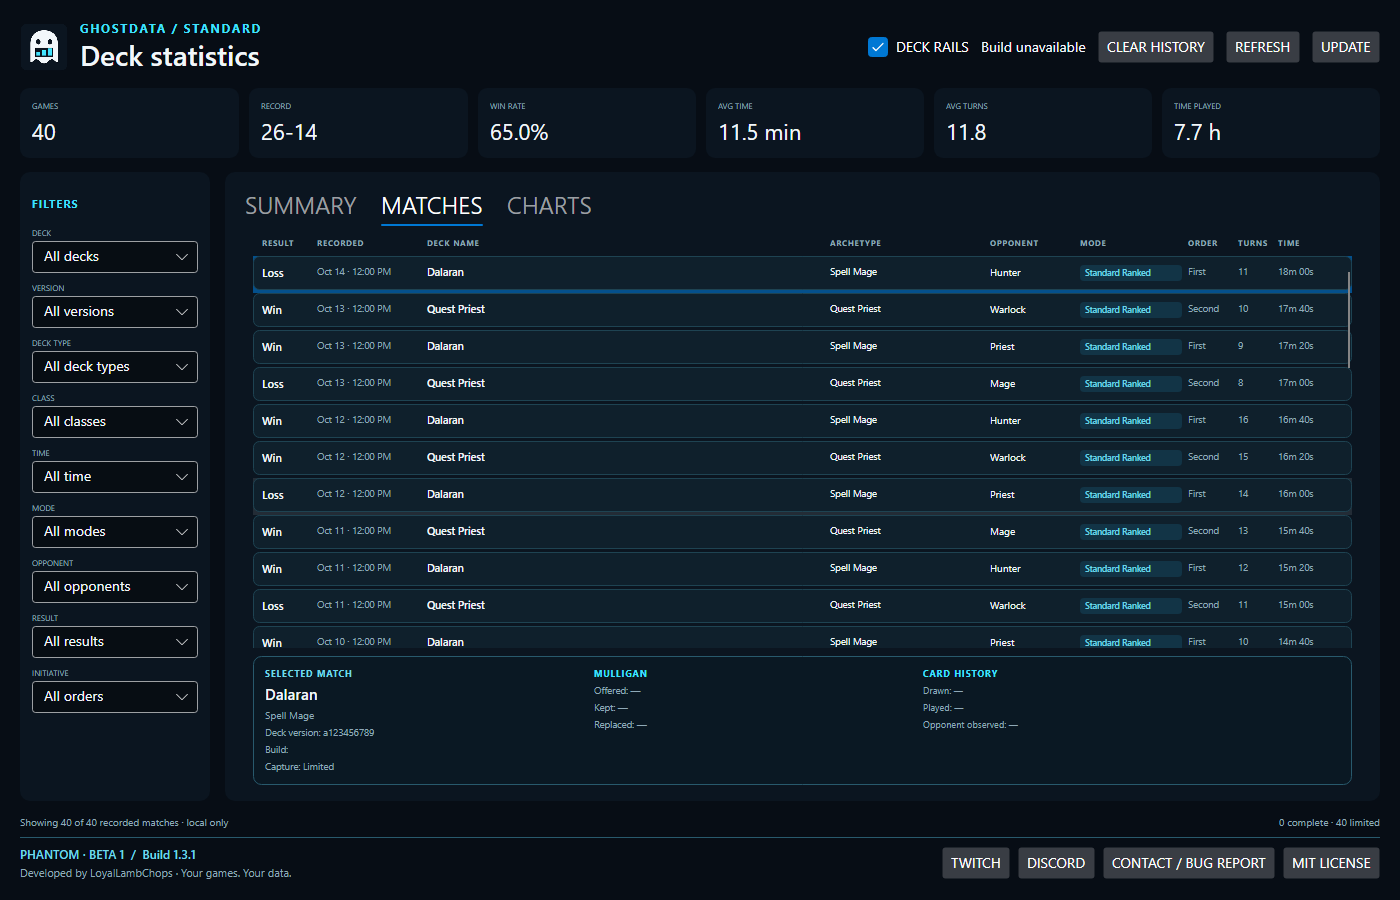
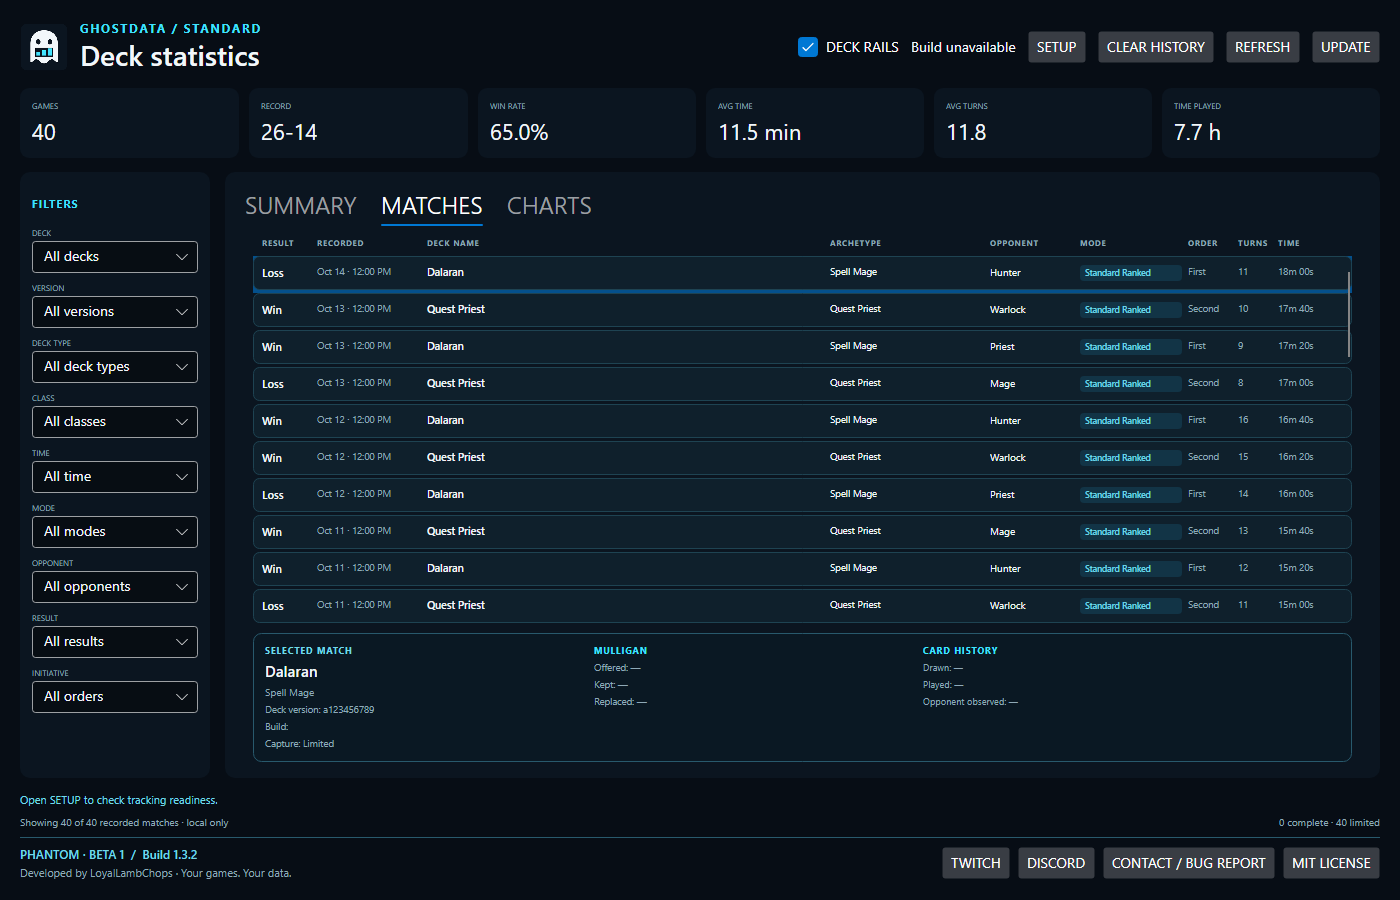
Record successful candidate CI and refresh setup-enabled dashboard previews

diff --git a/docs/PUBLIC_RELEASE_READINESS.md b/docs/PUBLIC_RELEASE_READINESS.md
@@ -8,7 +8,7 @@ Assessment: October 25, 2026. Phantom · Beta 1 (build 1.3.2) is the current rel
 - The .NET 10 candidate payload is approximately 129 MiB unpacked. This is a package-size measurement, not a CPU/RAM performance claim.
 - GitHub has no release assets published. The repository is private.
 - MIT was selected by the copyright holder on October 25. LICENSE covers original software, is embedded in the UI and included in both package formats. Third-party components retain their own notices.
-- An unsigned installer candidate is implemented and tested locally. A candidate CI workflow is implemented; record its actual run before claiming CI validation. The maintainer chose an unsigned initial release on October 25; signing is optional future work.
+- An unsigned installer candidate is implemented and tested locally. The candidate CI workflow passed on a fresh Windows runner; see the recorded evidence below. The maintainer chose an unsigned initial release on October 25; signing is optional future work.
 - The Update button supports verified release ZIPs in portable and installed layouts, staging, install-on-exit and startup rollback; uninstall metadata stays outside the swapped payload. Public download/update acceptance is outstanding.
 - App screenshots in the README are synthetic-data renders.
 
@@ -47,8 +47,8 @@ Signing can be reconsidered later if installation friction warrants it. No certi
 
 ## Release and acceptance gates
 
-- [ ] Build from a clean tagged checkout in a reproducible, documented Windows CI workflow; run Python and UI regression checks and dependency scans.
-- [ ] Produce the unsigned installer and portable assets from the same tested source version, then publish manifests/checksums with a clear unsigned-build notice.
+- [x] Build a candidate from a clean Windows CI checkout with dependency audits and Python/UI checks. Manual dispatch has passed; matching numeric tag triggering is implemented, but the first tagged public release remains pending.
+- [x] Produce the unsigned installer and portable assets from the same tested source with manifest, checksums, build provenance and an unsigned notice, available as private CI artifacts. Public release publication remains a separate gate below.
 - [ ] Test installation and launch on a clean supported Windows VM with no development Python or .NET SDK, using a standard user account and paths containing spaces/non-ASCII characters.
 - [ ] Repeat Desktop/Start Menu, duplicate-launch, upgrade, failed/interrupted-update and uninstall/reinstall acceptance on a clean VM. Local isolated install, shortcut, reinstall, update-success, startup-rollback and uninstall/data-preservation checks already pass; power-loss and interruption scenarios remain open.
 - [ ] Exercise a real downloaded release and update path, including Windows download-origin/security behavior. Do not treat locally copied unsigned builds as equivalent evidence.
@@ -72,3 +72,16 @@ Do not change repository visibility, buy a certificate or accept signing-service
 - .NET support: https://dotnet.microsoft.com/en-us/platform/support/policy
 - SignPath eligibility: https://signpath.org/terms
 - GitHub history/cache limitations: https://docs.github.com/en/authentication/keeping-your-account-and-data-secure/removing-sensitive-data-from-a-repository
+
+## Candidate validation — October 25, 2026
+
+Phantom · Beta 1, build **1.3.2**, source `9cf8bdb5cd90c4d702b593b86b40ae05bac5f0aa` passed [Windows candidate CI run 40237513928](https://github.com/LoyalLambChops/GhostData/actions/runs/40237513928).
+
+- 200 Python regressions and 40 dashboard/rail/lifecycle checks passed.
+- Dependency restores with auditing enabled and warnings treated as errors passed.
+- Installer creation, shortcut verification, rendered installed UI, reinstall replacement, failed-start rollback, successful update and uninstall/data preservation passed on the runner. The corrected upgrade fixture explicitly models completed onboarding.
+- Local native UI inspection confirmed first-run setup reports unavailable game/card states and Save and Close persists settings in an isolated data folder and returns to the dashboard. Synthetic Setup renders were also inspected.
+- The exact CI artifacts were downloaded and their checksums/source provenance verified for the maintainer's separate-PC test. No repository visibility or public-release change was made.
+- A bounded tracked-text credential-pattern scan found no matches; locally reachable history contained no private-media/data folders. This is not proof that GitHub's remote cached/unreachable commits are purged.
+
+The maintainer has a separate Windows 11 PC for the remaining clean-install test. Its results, live-game acceptance and real public download/update behavior are not yet recorded. Windows Server CI is not a substitute for that player-machine evidence.
